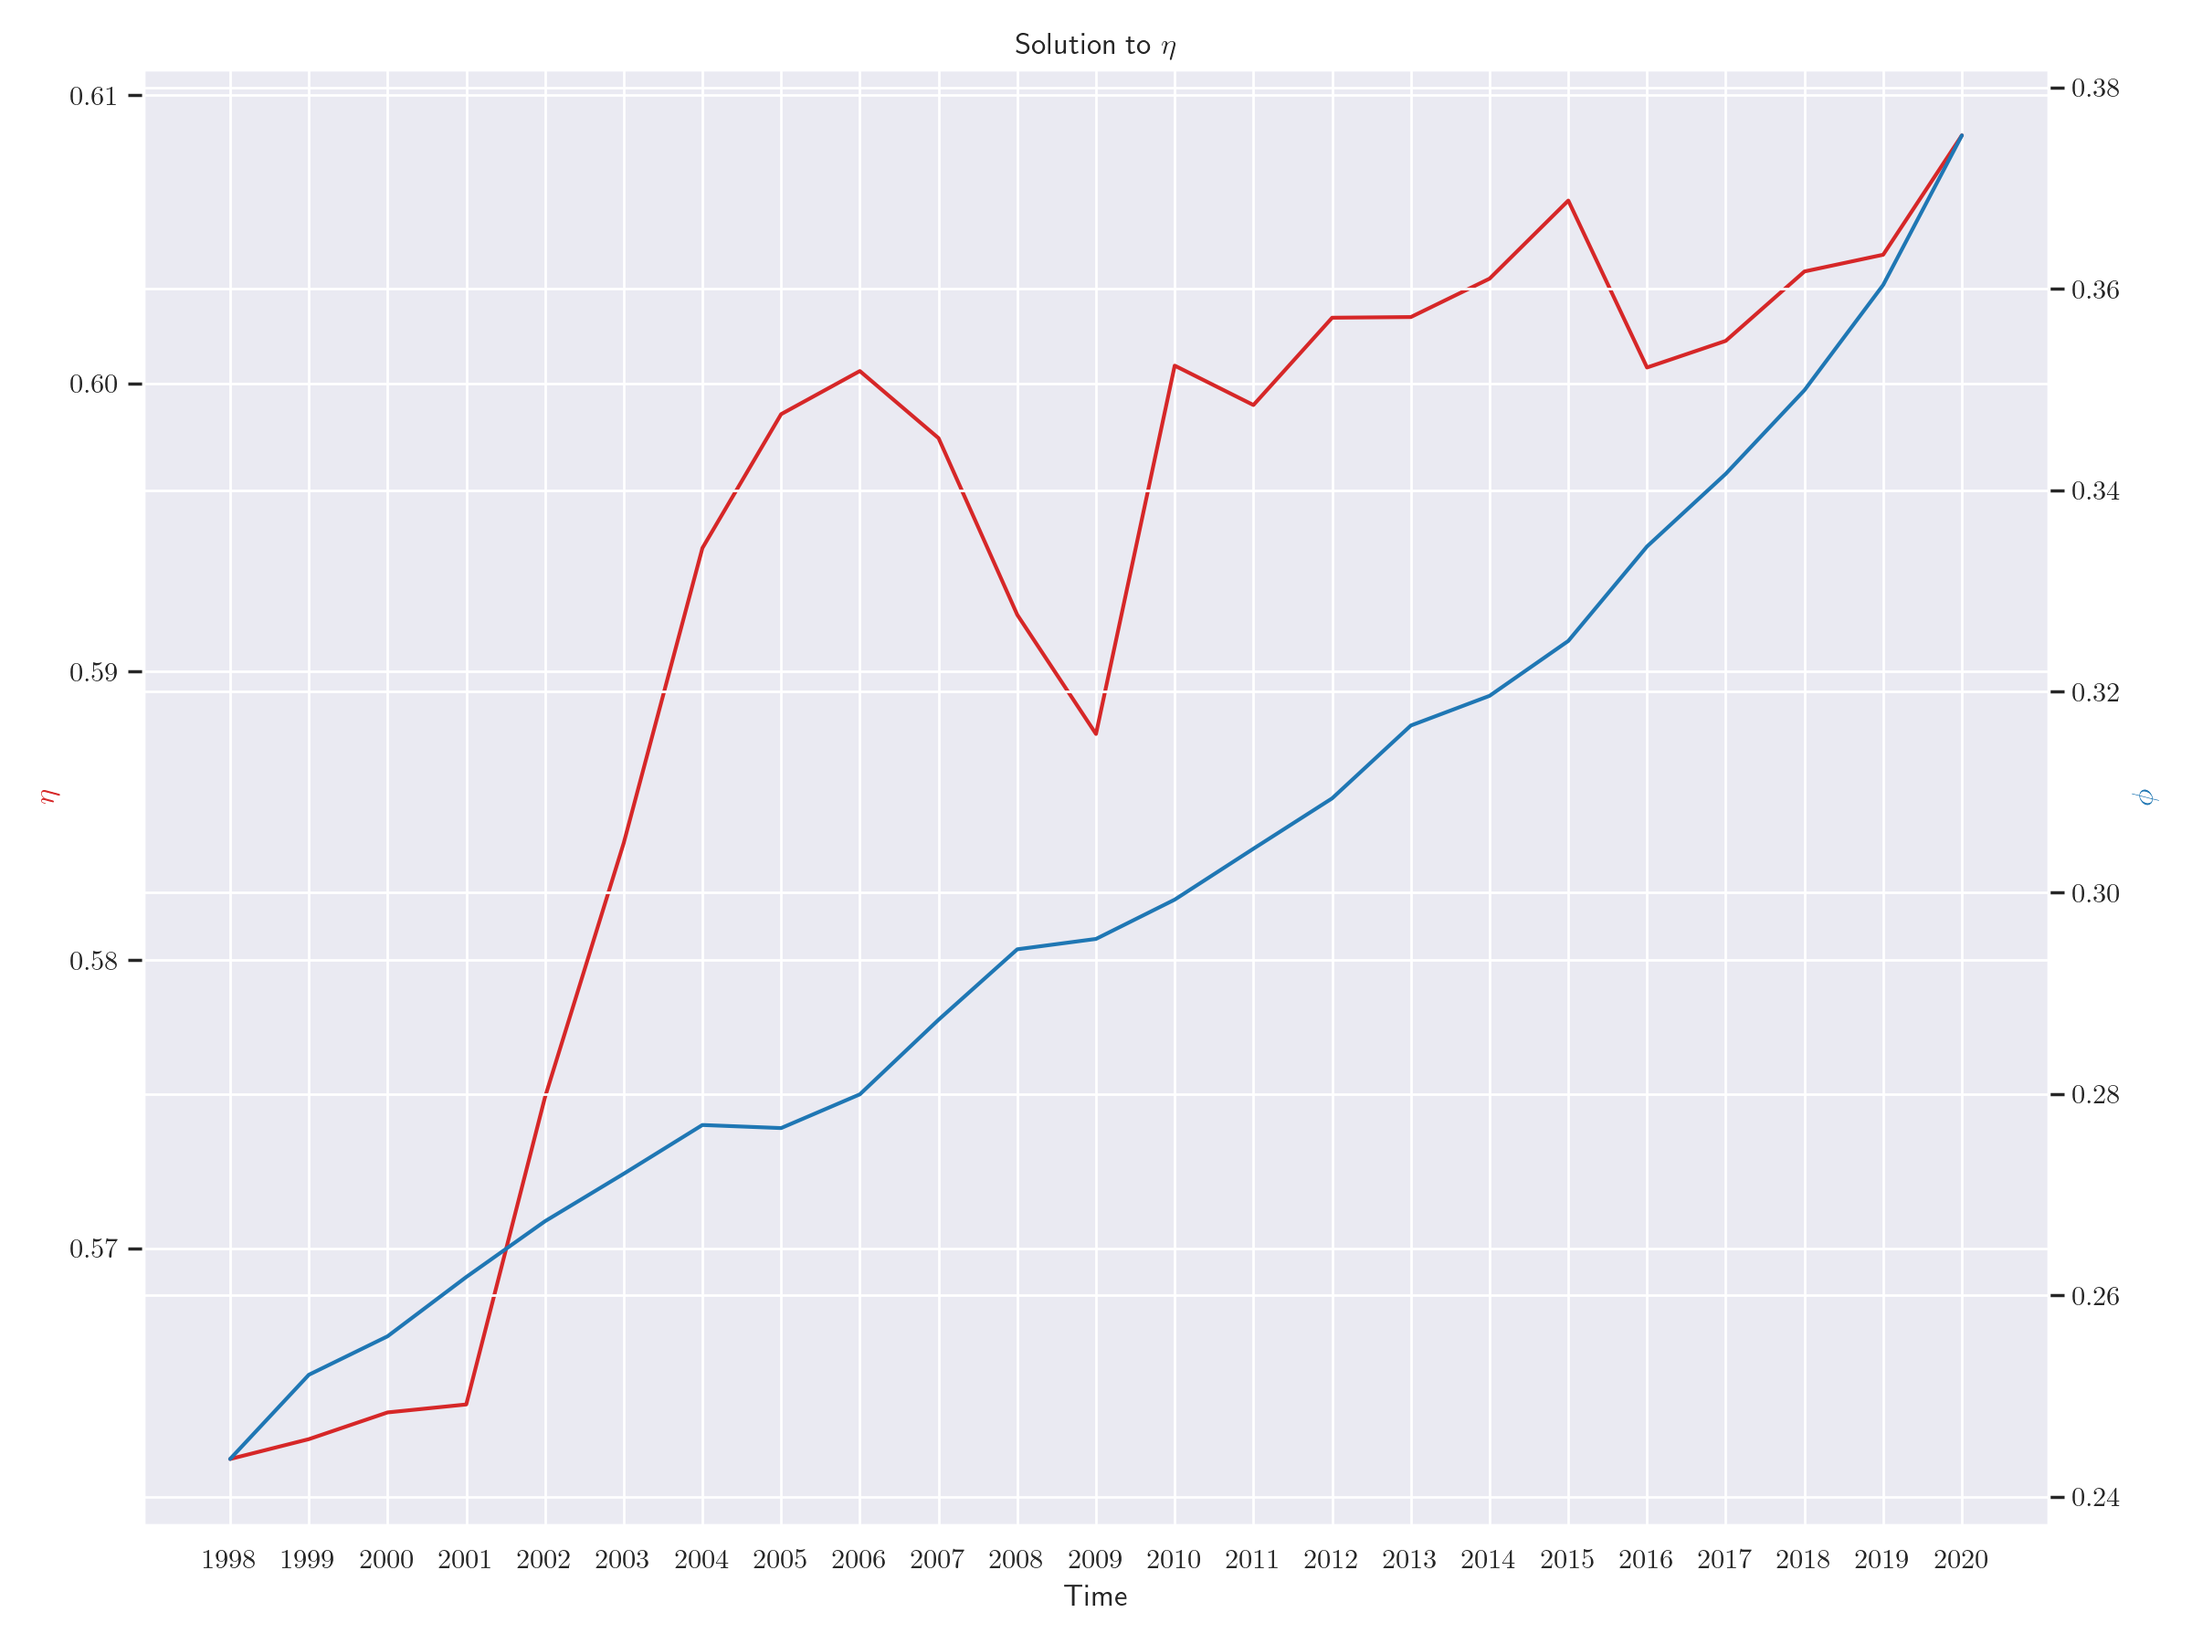
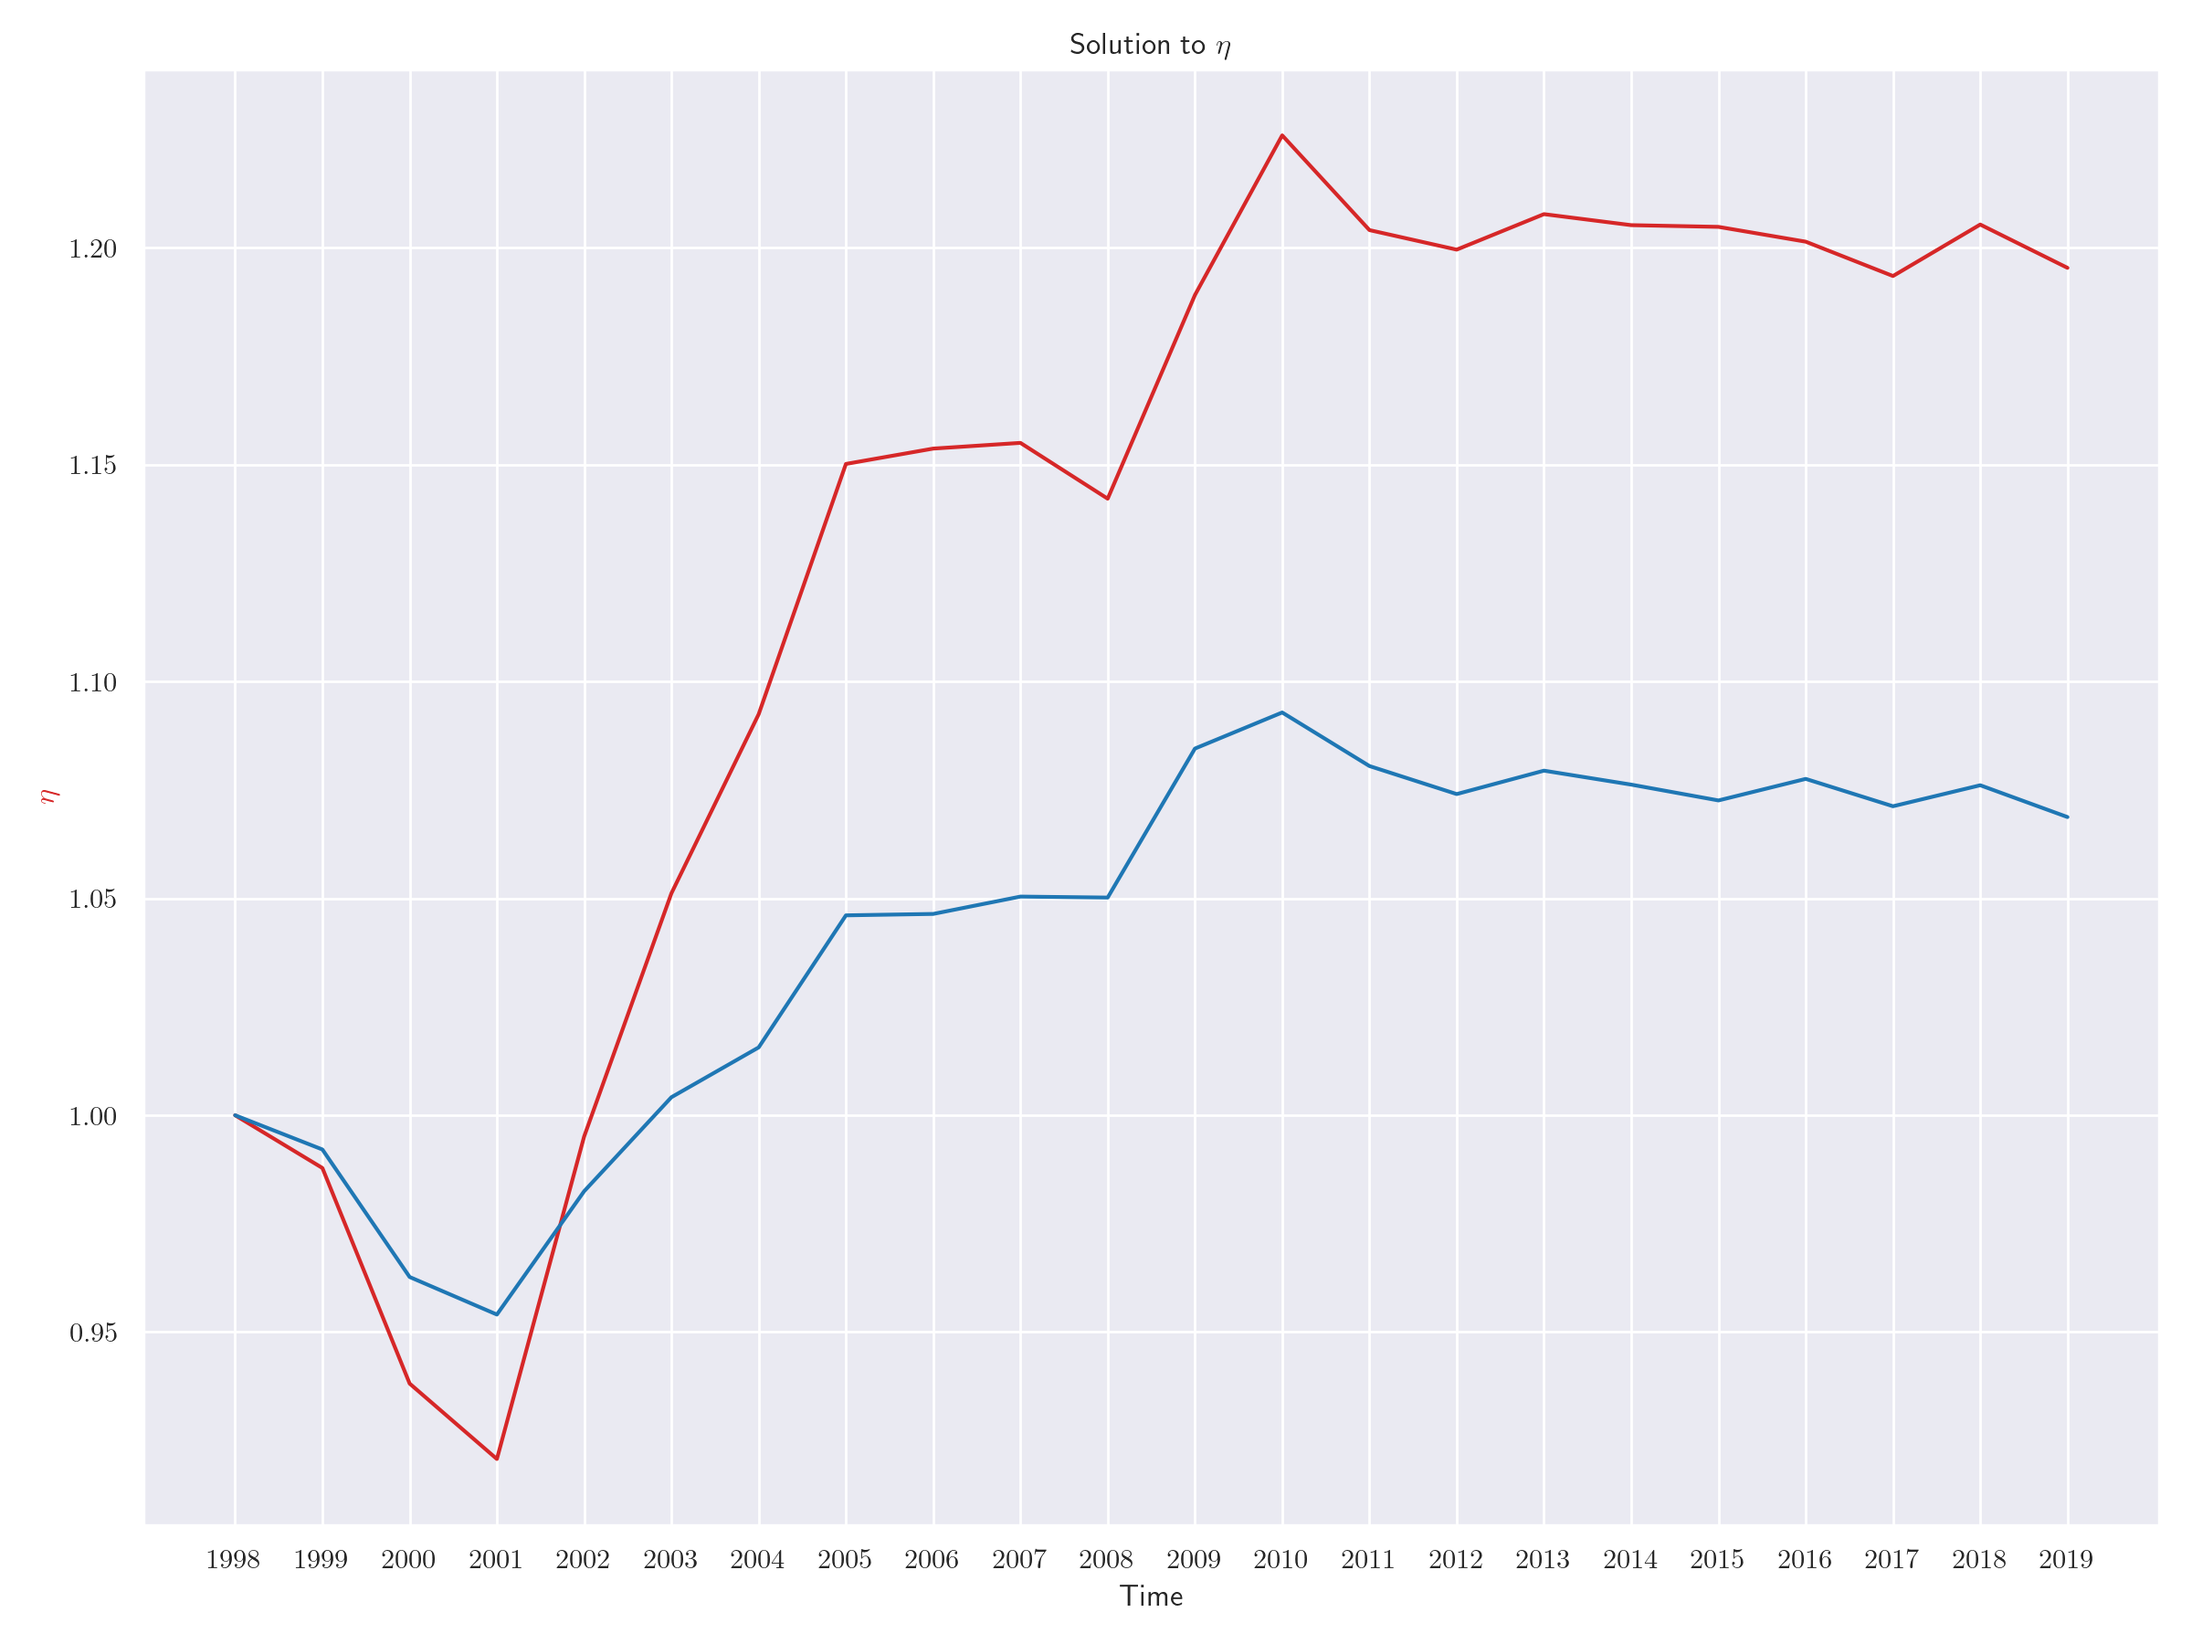
🦉🦫 labour share data

diff --git a/calibration/main.py b/calibration/main.py
@@ -31,8 +31,8 @@ if __name__ == "__main__":
 
     for i, f in data.iterrows():
         # FIXME: is it constant?
-        print(f"Working on year: {i}")    
-        m = Model(alpha=0.4, beta=1, phi=f.phi, h=f.h, l=f.l)
+        print(f"Working on year: {i} \r")    
+        m = Model(alpha=f.alpha, beta=1, phi=f.phi, h=f.h, l=f.l)
 
         eta, error = naive.get_eta(m, f.Y, f.H, f.K)
 
@@ -44,6 +44,9 @@ if __name__ == "__main__":
     errors = np.array(errors)
 
     years = [pd.to_datetime(s).year for s in data.sasdate]
+
+    etas_norm = [eta / etas[0] for eta in etas]
+    alpha_norm = [alpha / data.alpha[0] for alpha in data.alpha]
    
     fig, ax_eta = plt.subplots()
     ax_eta.set_title(r'Solution to $\eta$')
@@ -51,14 +54,14 @@ if __name__ == "__main__":
     ax_eta.set_xticks(years)
 
     color = 'tab:red'
-    ax_eta.plot(years, etas, color = color)
+    ax_eta.plot(years, etas_norm, color = color)
     ax_eta.set_ylabel(r'$\eta$', color = color)
 
-    ax_phi = ax_eta.twinx()
+   # ax_phi = ax_eta.twinx()
     
     color = 'tab:blue'
-    ax_phi.plot(years, data.phi, color = color)
-    ax_phi.set_ylabel(r'$\phi$', color = color)
+    ax_eta.plot(years, alpha_norm, color = color)
+    # ax_phi.set_ylabel(r'$\alpha$', color = color)
 
     fig.tight_layout()
     fig.savefig(os.path.join(plot_path, "naive_sol_eta.png"))
